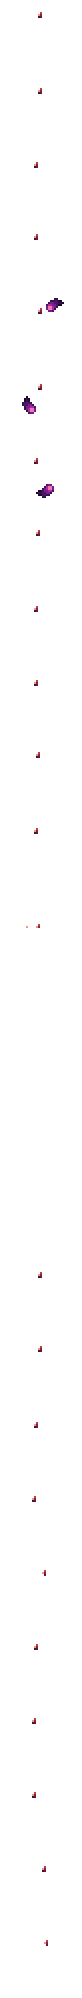
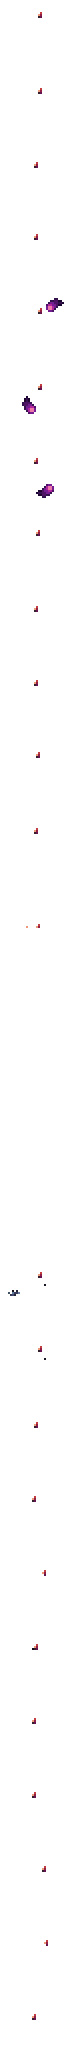
Haruka event

diff --git a/NPCs/Bosses/AH/Haruka/Haruka.cs b/NPCs/Bosses/AH/Haruka/Haruka.cs
@@ -59,7 +59,7 @@ namespace AAMod.NPCs.Bosses.AH.Haruka
 
         public int damage = 0;
 
-        public int[] internalAI = new int[9];
+        public int[] internalAI = new int[10];
 
         public int[] ShadowNPC = new int[3];
         
@@ -89,6 +89,7 @@ namespace AAMod.NPCs.Bosses.AH.Haruka
                 writer.Write(internalAI[6]); //Haruka skill counter
                 writer.Write(internalAI[7]); //Haruka Shadow Dash Counter
                 writer.Write(internalAI[8]); //Shadowkilling colddown
+                writer.Write(internalAI[9]); //Noticing Ashe is dead
                 writer.Write(ShadowNPC[0]);
                 writer.Write(ShadowNPC[1]);
                 writer.Write(ShadowNPC[2]);
@@ -118,6 +119,7 @@ namespace AAMod.NPCs.Bosses.AH.Haruka
                 internalAI[6] = reader.ReadInt();
                 internalAI[7] = reader.ReadInt();
                 internalAI[8] = reader.ReadInt();
+                internalAI[9] = reader.ReadInt();
                 ShadowNPC[0] = reader.ReadInt();
                 ShadowNPC[1] = reader.ReadInt();
                 ShadowNPC[2] = reader.ReadInt();
@@ -162,7 +164,6 @@ namespace AAMod.NPCs.Bosses.AH.Haruka
             }
             if (!Main.expertMode)
             {
-
                 string[] lootTableH = { "HarukaKunai", "Masamune", "MizuArashi", "HarukaBox" };
                 int lootH = Main.rand.Next(lootTableH.Length);
                 npc.DropLoot(mod.ItemType(lootTableH[lootH]));
@@ -171,10 +172,9 @@ namespace AAMod.NPCs.Bosses.AH.Haruka
             {
                 Item.NewItem((int)npc.position.X, (int)npc.position.Y, npc.width, npc.height, mod.ItemType("HarukaTrophy"));
             }
-            NPC.NewNPC((int)npc.Center.X, (int)npc.Center.Y, ModContent.NPCType<HarukaVanish>());
             if (Main.netMode != 1) BaseUtility.Chat(Lang.BossChat("HarukaDowned"), new Color(72, 78, 117));
-            npc.value = 0f;
-            npc.boss = false;
+            NPC.NewNPC((int)npc.Center.X, (int)npc.Center.Y, ModContent.NPCType<HarukaVanish>());
+
         }
         public override void ScaleExpertStats(int numPlayers, float bossLifeScale)
         {
@@ -186,7 +186,7 @@ namespace AAMod.NPCs.Bosses.AH.Haruka
 
         public int Shadowdashcounter = 0;
 
-        public static int AISTATE_PROJ = 0, AISTATE_SLASH = 1, AISTATE_SPIN = 2, AISTATE_IDLE = 3, AISTATE_Shadowkilling = 4; 
+        public static int AISTATE_PROJ = 0, AISTATE_SLASH = 1, AISTATE_SPIN = 2, AISTATE_IDLE = 3, AISTATE_Shadowkilling = 4, AISTATE_ASHEGAG = 5;
 
         public override void AI()
         {
@@ -200,25 +200,86 @@ namespace AAMod.NPCs.Bosses.AH.Haruka
                 damage = npc.damage / 2;
             }
 
-            Vector2 wantedVelocity = player.Center - new Vector2(pos, 0);
-            npc.direction = npc.spriteDirection = npc.position.X < player.position.X ? 1 : -1;
             int Ashe = NPC.CountNPCS(mod.NPCType("Ashe"));
             bool flag = player.dead || !player.active || Math.Abs(npc.position.X - Main.player[npc.target].position.X) > 6000f || Math.Abs(npc.position.Y - Main.player[npc.target].position.Y) > 6000f;
-            if (Ashe == 0 && flag)
+            if (Ashe == 0)
             {
-                npc.TargetClosest(false);
-                if (Main.netMode != 1)
+                if (internalAI[9]++ >= 480 && AAWorld.downedSisters)
                 {
-                    int DeathAnim = NPC.NewNPC((int)npc.Center.X, (int)npc.Center.Y, ModContent.NPCType<HarukaVanish>(), 0);
-                    Main.npc[DeathAnim].velocity = npc.velocity;
-                    Main.npc[DeathAnim].netUpdate = true;
-                    npc.active = false;
-                    npc.netUpdate = true;
+                    internalAI[0] = AISTATE_ASHEGAG;
+                    npc.dontTakeDamage = true;
+                    music = mod.GetSoundSlot(SoundType.Music, "Sounds/Music/silence");
+                    npc.velocity *= .96f;
+
+                    if (internalAI[9] == 540)
+                    {
+                        CombatText.NewText(npc.Hitbox, new Color(72, 78, 117), "..?");
+                    }
+
+                    if (internalAI[9] == 600)
+                    {
+                        npc.direction = npc.spriteDirection = -1;
+                    }
+                    if (internalAI[9] == 660)
+                    {
+                        CombatText.NewText(npc.Hitbox, new Color(72, 78, 117), "...Ashe?");
+                        npc.direction = npc.spriteDirection = 1;
+                    }
+                    if (internalAI[9] == 720)
+                    {
+                        npc.direction = npc.spriteDirection = -1;
+                    }
+
+                    if (internalAI[9] == 780)
+                    {
+                        npc.direction = npc.spriteDirection = npc.position.X < player.position.X ? 1 : -1;
+                    }
+
+                    if (internalAI[9] == 800)
+                    {
+                        CombatText.NewText(npc.Hitbox, new Color(72, 78, 117), "...thanks.");
+
+                        if (Main.expertMode)
+                        {
+                            npc.DropBossBags();
+                        }
+
+                        if (!Main.expertMode)
+                        {
+                            string[] lootTableH = { "HarukaKunai", "Masamune", "MizuArashi", "HarukaBox" };
+                            int lootH = Main.rand.Next(lootTableH.Length);
+                            npc.DropLoot(mod.ItemType(lootTableH[lootH]));
+                        }
+
+                        if (Main.rand.Next(10) == 0)
+                        {
+                            Item.NewItem((int)npc.position.X, (int)npc.position.Y, npc.width, npc.height, mod.ItemType("HarukaTrophy"));
+                        }
+
+                        NPC.NewNPC((int)npc.Center.X, (int)npc.Center.Y, ModContent.NPCType<HarukaVanish>());
+                        npc.active = false;
+                        npc.netUpdate = true;
+                    }
+                    return;
                 }
-                return;
+                if (flag)
+                {
+                    npc.TargetClosest(false);
+                    if (Main.netMode != 1)
+                    {
+                        int DeathAnim = NPC.NewNPC((int)npc.Center.X, (int)npc.Center.Y, ModContent.NPCType<HarukaVanish>(), 0);
+                        Main.npc[DeathAnim].velocity = npc.velocity;
+                        Main.npc[DeathAnim].netUpdate = true;
+                        npc.active = false;
+                        npc.netUpdate = true;
+                    }
+                    return;
+                }
             }
 
-            if(SHADOWCONTER <= 0)
+            npc.direction = npc.spriteDirection = npc.position.X < player.position.X ? 1 : -1;
+
+            if (SHADOWCONTER <= 0)
             {
                 npc.dontTakeDamage = false;
                 SHADOWCONTER = 0;
@@ -773,6 +834,10 @@ namespace AAMod.NPCs.Bosses.AH.Haruka
         public override void PostAI()
         {
             Player player = Main.player[npc.target];
+            if (internalAI[0] == AISTATE_ASHEGAG || internalAI[9] >= 480)
+            {
+                return;
+            }
             if (internalAI[0] != AISTATE_SPIN && internalAI[0] != AISTATE_Shadowkilling)
             {
                 if (player.Center.X > npc.Center.X) //If NPC's X position is higher than the player's
@@ -801,7 +866,15 @@ namespace AAMod.NPCs.Bosses.AH.Haruka
         public override void FindFrame(int frameHeight)
         {
             npc.frameCounter++;
-            if (ProjectileShoot == 0 || internalAI[0] == AISTATE_SLASH || internalAI[0] == AISTATE_SPIN)
+            if (internalAI[0] == AISTATE_ASHEGAG)
+            {
+                if (npc.frameCounter > 12)
+                {
+                    npc.frameCounter = 0;
+                    Frame++;
+                }
+            }
+            else if (ProjectileShoot == 0 || internalAI[0] == AISTATE_SLASH || internalAI[0] == AISTATE_SPIN)
             {
                 if (npc.frameCounter > 4)
                 {
@@ -817,7 +890,7 @@ namespace AAMod.NPCs.Bosses.AH.Haruka
                     Frame++;
                 }
             }
-            if (internalAI[0] == AISTATE_IDLE)
+            if (internalAI[0] == AISTATE_IDLE || internalAI[0] == AISTATE_ASHEGAG)
             {
                 if (Frame > 3)
                 {
@@ -1195,8 +1268,6 @@ namespace AAMod.NPCs.Bosses.AH.Haruka
             
             BaseDrawing.DrawTexture(spritebatch, Slash, 0, npc.position, npc.width, npc.height, npc.scale, npc.rotation, npc.spriteDirection, 28, npc.frame, dColor, false);
             BaseDrawing.DrawTexture(spritebatch, glowTex, 0, npc.position, npc.width, npc.height, npc.scale, npc.rotation, npc.spriteDirection, 28, npc.frame, Color.White, false);
-
-            BaseDrawing.DrawAfterimage(spritebatch, glowTex, 0, npc, 1f, 1f, 7, true, 0f, 0f, AAColor.YamataA);
             return false;
         }
     }

diff --git a/NPCs/Bosses/AH/Haruka/HarukaVanish.cs b/NPCs/Bosses/AH/Haruka/HarukaVanish.cs
@@ -46,7 +46,22 @@ namespace AAMod.NPCs.Bosses.AH.Haruka
                 {
                     npc.ai[0] = 0;
                     npc.ai[1] += 1;
-                    if (npc.frame.Y > (92 * 12))
+                    if (!npc.collideY)
+                    {
+                        if (npc.ai[1] > 3)
+                        {
+                            npc.ai[1] = 0;
+                        }
+                        return;
+                    }
+                    else
+                    {
+                        if (npc.ai[1] < 4)
+                        {
+                            npc.ai[1] = 4;
+                        }
+                    }
+                    if (npc.frame.Y >= (92 * 12))
                     {
                         npc.ai[2] = 1;
                         Main.PlaySound(SoundID.Item14, npc.position);
@@ -120,9 +135,9 @@ namespace AAMod.NPCs.Bosses.AH.Haruka
         {
             Texture2D glowTex = mod.GetTexture("Glowmasks/HarukaVanish_Glow");
 
-            BaseDrawing.DrawTexture(spritebatch, Main.npcTexture[npc.type], 0, npc.position, npc.width, npc.height, npc.scale, npc.rotation, npc.spriteDirection, 27, npc.frame, npc.GetAlpha(dColor), true);
-            BaseDrawing.DrawTexture(spritebatch, glowTex, 0, npc.position, npc.width, npc.height, npc.scale, npc.rotation, npc.spriteDirection, 27, npc.frame, Color.White, true);
-            BaseDrawing.DrawAfterimage(spritebatch, glowTex, 0, npc, 0.8f, 1f, 4, true, 0f, 0f, Color.White, npc.frame, 27);
+            BaseDrawing.DrawTexture(spritebatch, Main.npcTexture[npc.type], 0, npc.position, npc.width, npc.height, npc.scale, npc.rotation, npc.spriteDirection, 17, npc.frame, npc.GetAlpha(dColor), true);
+            BaseDrawing.DrawTexture(spritebatch, glowTex, 0, npc.position, npc.width, npc.height, npc.scale, npc.rotation, npc.spriteDirection, 17, npc.frame, Color.White, true);
+            BaseDrawing.DrawAfterimage(spritebatch, glowTex, 0, npc, 0.8f, 1f, 4, true, 0f, 0f, Color.White, npc.frame, 17);
             return false;
         }
     }
